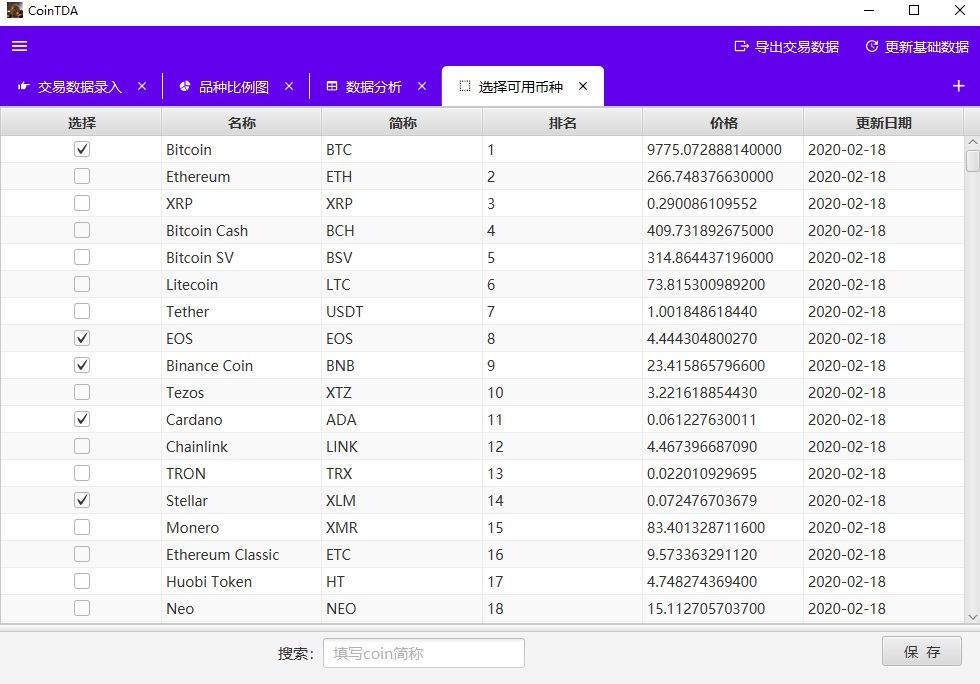
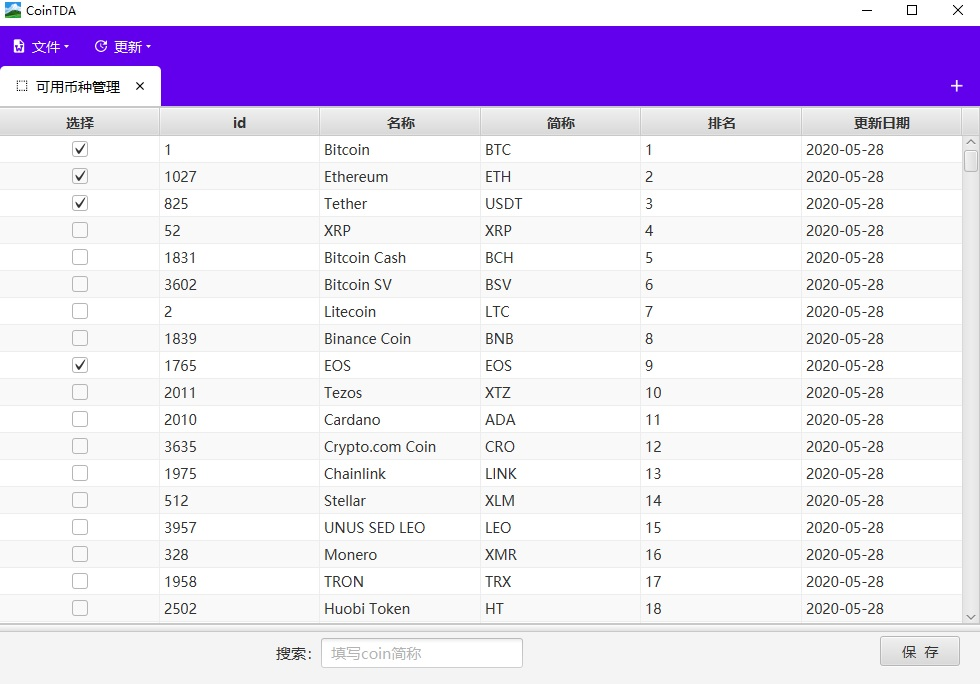
编辑文档

diff --git a/src/main/java/org/mapleaf/cointda/App.java b/src/main/java/org/mapleaf/cointda/App.java
@@ -25,7 +25,6 @@ import javafx.scene.Scene;
 import javafx.scene.control.ButtonType;
 import javafx.scene.control.MenuItem;
 import javafx.stage.Stage;
-
 import javafx.scene.image.Image;
 
 import org.apache.logging.log4j.LogManager;
@@ -61,7 +60,7 @@ public class App extends Application {
 
         primaryStage.setTitle("CoinTDA");
         primaryStage.getIcons().add(new Image(
-                App.class.getResource("images/cointda.jpg").toString()));
+                App.class.getResource("images/lifng.jpg").toString()));
         primaryStage.setScene(myScene);
         primaryStage.setWidth(1000);
         primaryStage.setHeight(700);

diff --git a/src/main/java/org/mapleaf/cointda/modules/trade/TradeDataEditModule.java b/src/main/java/org/mapleaf/cointda/modules/trade/TradeDataEditModule.java
@@ -33,7 +33,7 @@ public class TradeDataEditModule extends WorkbenchModule {
     private static final Logger logger = LogManager.getLogger(TradeDataEditModule.class.getName());
 
     public TradeDataEditModule() {
-        super("交易数据录入", MaterialDesignIcon.HAND_POINTING_RIGHT);
+        super("交易数据管理", MaterialDesignIcon.HAND_POINTING_RIGHT);
     }
 
     @Override

diff --git a/src/main/java/org/mapleaf/cointda/modules/piechart/TypePieChartModule.java b/src/main/java/org/mapleaf/cointda/modules/piechart/TypePieChartModule.java
@@ -33,7 +33,7 @@ public class TypePieChartModule extends WorkbenchModule {
     private static final Logger logger = LogManager.getLogger(TypePieChartModule.class.getName());
 
     public TypePieChartModule() {
-        super("品种比例图", MaterialDesignIcon.CHART_PIE);
+        super("数据图例", MaterialDesignIcon.CHART_PIE);
     }
 
     @Override

diff --git a/src/main/java/org/mapleaf/cointda/modules/selectcoin/SelectCoinModule.java b/src/main/java/org/mapleaf/cointda/modules/selectcoin/SelectCoinModule.java
@@ -33,7 +33,7 @@ public class SelectCoinModule extends WorkbenchModule {
     private static final Logger logger = LogManager.getLogger(SelectCoinModule.class.getName());
 
     public SelectCoinModule() {
-        super("选择可用币种", MaterialDesignIcon.SELECT);
+        super("可用币种管理", MaterialDesignIcon.SELECT);
     }
 
     @Override

diff --git a/src/main/java/org/mapleaf/cointda/modules/cash/CashViewModule.java b/src/main/java/org/mapleaf/cointda/modules/cash/CashViewModule.java
@@ -33,7 +33,7 @@ public class CashViewModule extends WorkbenchModule {
     private static final Logger logger = LogManager.getLogger(CashViewModule.class.getName());
 
     public CashViewModule() {
-        super("出入金录入", MaterialDesignIcon.CASH);
+        super("出入金管理", MaterialDesignIcon.CASH);
     }
 
     @Override
